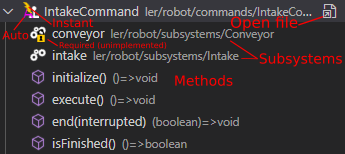
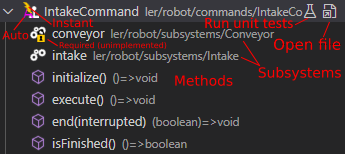
Updated readme

Changed region(s): [[0.6667, 0.1558, 1.0, 0.5195], [0.5797, 0.026, 0.9565, 0.2078]]

diff --git a/README.md b/README.md
@@ -7,7 +7,7 @@ Botbuilder is a VSCode extension to assist in developing FRC java robots.
 The extension features multiple sidebar treeviews outlining components of the robot.
 
 #### Subsystem View
-The subsystem view shows a list of subsytem classes in the workspace. Classes are identified as subsystems if they directly extend `edu.wpi.first.wpilibj2.command.SubsystemBase`. Subsystems can be opened directly from this view.
+The subsystem view shows a list of subsytem classes in the workspace. Classes are identified as subsystems if they directly extend `edu.wpi.first.wpilibj2.command.SubsystemBase`. Subsystems can be opened directly from this view, and their test classes can be executed.
 
 For each subsytem, the following is shown:
  - Hardware components passed in the constructor, from the hardware list in `botbuilder.json` (name & type)
@@ -18,7 +18,7 @@ For each subsytem, the following is shown:
 ![Subsytem View](https://github.com/gregk27/Botbuilder/blob/master/readme-res/subsystemView.png?raw=true)
 
 #### Command View
-The command view shows a list of command classes in the workspace. Classes are identified as command if they directly extend `edu.wpi.first.wpilibj2.command.CommandBase` or `edu.wpi.first.wpilibj2.command.InstantCommand`. Commands can be opened directly from this view.
+The command view shows a list of command classes in the workspace. Classes are identified as command if they directly extend `edu.wpi.first.wpilibj2.command.CommandBase` or `edu.wpi.first.wpilibj2.command.InstantCommand`. Commands can be opened directly from this view, and their test classes can be executed.
 
 For each command, the following is shown:
  - Whether the command is normal, instant, or autonomous (auto determined by package)
